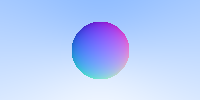
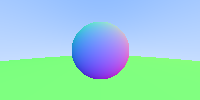
Chapter 5: multiple objects and fixes
Fixed the intersection test by checking that the hit is in-front of the
camera. Also changed the view vectors to reflect the fact that I go from
the upper left at (0, 0) when creating the picture. This fixed the color
vector from previous commit.

diff --git a/ray_tracer/src/main.rs b/ray_tracer/src/main.rs
@@ -1,8 +1,14 @@
+mod hitable;
+mod hitable_list;
 mod ray;
+mod sphere;
 
 extern crate image;
 
+use hitable::Hitable;
+use hitable_list::HitableList;
 use ray::Ray;
+use sphere::Sphere;
 use vec3::Real;
 use vec3::Vec3;
 
@@ -12,18 +18,22 @@ fn main() {
 
     let mut imgbuf = image::ImageBuffer::new(width, height);
 
-    let lower_left_corner = Vec3::new(-2., -1., -1.);
+    let upper_left_corner = Vec3::new(-2., 1., -1.);
     let horizontal = Vec3::new(4., 0., 0.);
-    let vertical = Vec3::new(0., 2., 0.);
+    let vertical = Vec3::new(0., -2., 0.);
     let origin = Vec3::new(0., 0., 0.);
+    let world: HitableList = vec![
+        Box::new(Sphere::new(Vec3::new(0., 0., -1.), 0.5)),
+        Box::new(Sphere::new(Vec3::new(0., -100.5, -1.), 100.)),
+    ];
 
     // Iterate over the coordinates and pixels of the image
     for (x, y, pixel) in imgbuf.enumerate_pixels_mut() {
         let u = (x as Real) / (width as Real);
         let v = (y as Real) / (height as Real);
 
-        let r = Ray::new(origin, lower_left_corner + u * horizontal + v * vertical);
-        let col = color(&r);
+        let r = Ray::new(origin, upper_left_corner + u * horizontal + v * vertical);
+        let col = color(&r, &world);
         let rgb = 255.99 * col;
 
         *pixel = image::Rgb([rgb.x as u8, rgb.y as u8, rgb.z as u8]);
@@ -33,26 +43,13 @@ fn main() {
     imgbuf.save("../eye_candy/normal_sphere.png").unwrap();
 }
 
-fn color(r: &Ray) -> Vec3 {
-    if let Some(t) = hit_sphere(Vec3::new(0., 0., -1.), 0.5, r) {
-        let n = (r.point_at_parameter(t) - Vec3::new(0., 0., -1.)).unit_vec();
-        return 0.5 * (n + Vec3::new(1., 1., 1.));
-    }
-    let unit_direction = r.direction().unit_vec();
-    let t = 0.5 * (unit_direction.y + 1.);
-    // return lerp
-    t * Vec3::new(1., 1., 1.) + (1. - t) * Vec3::new(0.5, 0.7, 1.)
-}
-
-fn hit_sphere(center: Vec3, radius: Real, r: &Ray) -> Option<Real> {
-    let oc = r.origin() - center;
-    let a = r.direction().dot(r.direction());
-    let b = oc.dot(r.direction());
-    let c = oc.dot(oc) - radius * radius;
-    let discriminant = b * b - a * c;
-    if discriminant < 0. {
-        None
+fn color(r: &Ray, world: &HitableList) -> Vec3 {
+    if let Some(rec) = world.hit(r, 0., std::f32::MAX) {
+        0.5 * (rec.normal + Vec3::new(1., 1., 1.)) // map from [-1, 1] to [0, 1] for x,y,z
     } else {
-        Some(-(b + discriminant.sqrt()) / a)
+        let unit_direction = r.direction().unit_vec();
+        let t = 0.5 * (unit_direction.y + 1.); // map from [-1, 1] to [0, 1]
+                                               // return lerp
+        t * Vec3::new(0.5, 0.7, 1.) + (1. - t) * Vec3::new(1., 1., 1.)
     }
 }

diff --git a/ray_tracer/src/sphere.rs b/ray_tracer/src/sphere.rs
@@ -1,0 +1,42 @@
+use crate::hitable::{HitRecord, Hitable};
+use crate::ray::Ray;
+use vec3::Real;
+use vec3::Vec3;
+
+pub struct Sphere {
+    center: Vec3,
+    radius: Real,
+}
+
+impl Sphere {
+    pub fn new(center: Vec3, radius: Real) -> Self {
+        Sphere { center, radius }
+    }
+}
+
+impl Hitable for Sphere {
+    fn hit(&self, r: &Ray, t_min: Real, t_max: Real) -> Option<HitRecord> {
+        let oc = r.origin() - self.center;
+        let a = r.direction().dot(r.direction());
+        let b = oc.dot(r.direction());
+        let c = oc.dot(oc) - self.radius * self.radius;
+        let discriminant = b * b - a * c;
+        if discriminant > 0. {
+            let temp = (-b - discriminant.sqrt()) / a;
+            if temp < t_max && temp > t_min {
+                let t = temp;
+                let p = r.point_at_parameter(t);
+                let normal = (p - self.center) / self.radius;
+                return Some(HitRecord { t, p, normal });
+            }
+            let temp = (-b + discriminant.sqrt()) / a;
+            if temp < t_max && temp > t_min {
+                let t = temp;
+                let p = r.point_at_parameter(t);
+                let normal = (p - self.center) / self.radius;
+                return Some(HitRecord { t, p, normal });
+            }
+        }
+        None
+    }
+}

diff --git a/ray_tracer/src/hitable_list.rs b/ray_tracer/src/hitable_list.rs
@@ -1,0 +1,19 @@
+use crate::hitable::{HitRecord, Hitable};
+use crate::ray::Ray;
+use vec3::Real;
+
+pub type HitableList = Vec<Box<Hitable>>;
+
+impl Hitable for HitableList {
+    fn hit(&self, r: &Ray, t_min: Real, t_max: Real) -> Option<HitRecord> {
+        let mut closest_so_far = t_max;
+        let mut rec_opt = None;
+        for item in self.iter() {
+            if let Some(rec) = item.hit(r, t_min, closest_so_far) {
+                closest_so_far = rec.t;
+                rec_opt = Some(rec);
+            }
+        }
+        rec_opt
+    }
+}

diff --git a/ray_tracer/src/hitable.rs b/ray_tracer/src/hitable.rs
@@ -1,0 +1,13 @@
+use crate::ray::Ray;
+use vec3::Real;
+use vec3::Vec3;
+
+pub struct HitRecord {
+    pub t: Real,
+    pub p: Vec3,
+    pub normal: Vec3,
+}
+
+pub trait Hitable {
+    fn hit(&self, r: &Ray, t_min: Real, t_max: Real) -> Option<HitRecord>;
+}
